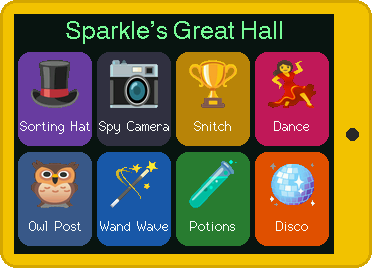
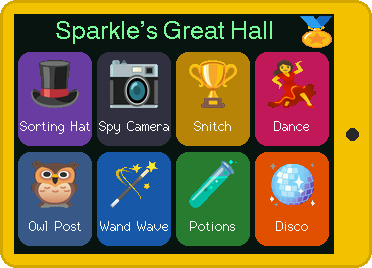
CYD badge board: medal button on the menu shows Megaspy's badges from IDEAS.md (tools/badges.py)

Changed region(s): [[0.1478, 0.0597, 0.7688, 0.1493], [0.7984, 0.0597, 0.8871, 0.1791]]

diff --git a/firmware/cyd/cyd_menu/icons.h b/firmware/cyd/cyd_menu/icons.h
@@ -2714,6 +2714,73 @@ const uint16_t DISCO[] PROGMEM = {
   0xF81F, 0xF81F, 0xF81F, 0xF81F, 0xF81F, 0xF81F, 0xF81F, 0xF81F, 0xF81F, 0xF81F, 0xF81F, 0xF81F, 0xF81F, 0xF81F, 0xF81F, 0xF81F,
   0xF81F, 0xF81F, 0xF81F, 0xF81F, 0xF81F, 0xF81F, 0xF81F, 0xF81F, 0xF81F, 0xF81F, 0xF81F, 0xF81F, 0xF81F, 0xF81F, 0xF81F, 0xF81F,
 };
+#define MEDAL_W 32
+const uint16_t MEDAL[] PROGMEM = {
+  0x23F8, 0x2CFE, 0x2CBD, 0x2CBD, 0x2CBD, 0x2CBD, 0x2CBD, 0x2CBD, 0x2CBD, 0x2CBD, 0x2CBD, 0x2CBC, 0x2CDD, 0x2C5A, 0xF81F, 0xF81F,
+  0xF81F, 0xF81F, 0xF81F, 0x1378, 0x1337, 0x1337, 0x1337, 0x1337, 0x1337, 0x1337, 0x1337, 0x1337, 0x1358, 0x1358, 0x1399, 0x1316,
+  0xF81F, 0x2C9C, 0x355F, 0x2CFE, 0x2D1F, 0x2D1F, 0x2D1F, 0x2D1F, 0x2D1F, 0x2D1F, 0x2CFF, 0x2D1F, 0x2D1F, 0x353F, 0xF81F, 0xF81F,
+  0xF81F, 0xF81F, 0x1358, 0x1B9A, 0x1B79, 0x1B99, 0x1B99, 0x1B99, 0x1B99, 0x1B99, 0x1B99, 0x1B99, 0x1B79, 0x1B9A, 0x1379, 0xF81F,
+  0xF81F, 0xF81F, 0x2CBD, 0x353F, 0x2CDE, 0x2CFE, 0x2CFE, 0x2CFE, 0x2CFE, 0x2CFE, 0x2CFE, 0x2CFE, 0x2CFE, 0x2CFE, 0x2D1F, 0xF81F,
+  0xF81F, 0x1358, 0x1B9A, 0x1358, 0x1358, 0x1358, 0x1358, 0x1358, 0x1358, 0x1358, 0x1358, 0x1358, 0x1379, 0x1379, 0xF81F, 0xF81F,
+  0xF81F, 0xF81F, 0xF81F, 0x2CDD, 0x351F, 0x2CFE, 0x2CFE, 0x2CFE, 0x2CFE, 0x2CFE, 0x2CFE, 0x2CFE, 0x2CFE, 0x2CDE, 0x351F, 0x2CBD,
+  0x1357, 0x1B9A, 0x1358, 0x1378, 0x1378, 0x1378, 0x1378, 0x1378, 0x1378, 0x1378, 0x1378, 0x1379, 0x1B9A, 0xF81F, 0xF81F, 0xF81F,
+  0xF81F, 0xF81F, 0xF81F, 0xF81F, 0x2CDD, 0x2D1F, 0x2CFE, 0x2CFE, 0x2CFE, 0x2CFE, 0x2CFE, 0x2CFE, 0x2CFE, 0x2CFE, 0x2CDE, 0x351F,
+  0x2CBE, 0x1358, 0x1379, 0x1378, 0x1378, 0x1378, 0x1378, 0x1378, 0x1378, 0x1378, 0x1358, 0x1BBA, 0x12F5, 0xF81F, 0xF81F, 0xF81F,
+  0xF81F, 0xF81F, 0xF81F, 0xF81F, 0xF81F, 0x2CFE, 0x2D1F, 0x2CFE, 0x2CFE, 0x2CFE, 0x2CFE, 0x2CFE, 0x2CFE, 0x2CFE, 0x2CFE, 0x2CDE,
+  0x2D1E, 0x243B, 0x1358, 0x1379, 0x1378, 0x1378, 0x1378, 0x1378, 0x1378, 0x1358, 0x1BBA, 0x12F6, 0xF81F, 0xF81F, 0xF81F, 0xF81F,
+  0xF81F, 0xF81F, 0xF81F, 0xF81F, 0xF81F, 0xF81F, 0x2D1F, 0x2CFE, 0x2CFE, 0x2CFE, 0x2CFE, 0x2CFE, 0x2CFE, 0x2CFE, 0x2CFE, 0x2CFE,
+  0x2CFE, 0x2CFE, 0x1BDA, 0x1358, 0x1379, 0x1378, 0x1378, 0x1378, 0x1358, 0x1BBA, 0x1316, 0xF81F, 0xF81F, 0xF81F, 0xF81F, 0xF81F,
+  0xF81F, 0xF81F, 0xF81F, 0xF81F, 0xF81F, 0xF81F, 0xF81F, 0x353F, 0x2CFE, 0x2CFE, 0x2CFE, 0x2CFE, 0x2CFE, 0x2CFE, 0x2CFE, 0x2CFE,
+  0x2CFE, 0x2CFE, 0x2CDE, 0x1B99, 0x1358, 0x1378, 0x1378, 0x1358, 0x1B9A, 0x1337, 0xF81F, 0xF81F, 0xF81F, 0xF81F, 0xF81F, 0xF81F,
+  0xF81F, 0xF81F, 0xF81F, 0xF81F, 0xF81F, 0xF81F, 0xF81F, 0x243A, 0x355F, 0x34FE, 0x2CFE, 0x2CFE, 0x2CFE, 0x2CFE, 0x2CFE, 0x2CFE,
+  0x2CFE, 0x2CFE, 0x2D1E, 0x2C9C, 0x1358, 0x1B78, 0x1B78, 0x1BBA, 0x1B57, 0xF81F, 0xF81F, 0xF81F, 0xF81F, 0xF81F, 0xF81F, 0xF81F,
+  0xF81F, 0xF81F, 0xF81F, 0xF81F, 0xF81F, 0xF81F, 0xF81F, 0xF81F, 0x0C1D, 0x251F, 0x34FE, 0x2CFE, 0x2CFE, 0x2CFE, 0x2CFE, 0x2CFE,
+  0x2CFE, 0x2CFE, 0x2CDE, 0x2D1E, 0x241B, 0x0B38, 0x0B5B, 0x0319, 0xF81F, 0xF81F, 0xF81F, 0xF81F, 0xF81F, 0xF81F, 0xF81F, 0xF81F,
+  0xF81F, 0xF81F, 0xF81F, 0xF81F, 0xF81F, 0xF81F, 0xF81F, 0xF81F, 0xF560, 0x7554, 0x1CFF, 0x355F, 0x355F, 0x355F, 0x355F, 0x355F,
+  0x355F, 0x355F, 0x355F, 0x355F, 0x2D3F, 0x8532, 0xB54A, 0xCD87, 0xF81F, 0xF81F, 0xF81F, 0xF81F, 0xF81F, 0xF81F, 0xF81F, 0xF81F,
+  0xF81F, 0xF81F, 0xF81F, 0xF81F, 0xF81F, 0xF81F, 0xF81F, 0xF81F, 0xF5C2, 0xFEA4, 0x7CF1, 0x1C1B, 0x145E, 0x145E, 0x1C5C, 0x1CBF,
+  0x1CDF, 0x1CDF, 0x1CBF, 0x145E, 0x045F, 0x6492, 0xFDC0, 0xFF03, 0xDD43, 0xF81F, 0xF81F, 0xF81F, 0xF81F, 0xF81F, 0xF81F, 0xF81F,
+  0xF81F, 0xF81F, 0xF81F, 0xF81F, 0xF81F, 0xF81F, 0xF81F, 0xF81F, 0xE563, 0xF603, 0xFE01, 0xFDE1, 0xFDA0, 0xF81F, 0xFE6C, 0xFDE5,
+  0xFD80, 0xFDA0, 0xFDA0, 0xF540, 0xF81F, 0xF5C1, 0xF5E3, 0xF623, 0xF81F, 0xF81F, 0xF81F, 0xF81F, 0xF81F, 0xF81F, 0xF81F, 0xF81F,
+  0xF81F, 0xF81F, 0xF81F, 0xF81F, 0xF81F, 0xF81F, 0xF81F, 0xF81F, 0xF81F, 0xF81F, 0xF81F, 0xE5C4, 0xEDC2, 0xFE45, 0xFFFF, 0xFF70,
+  0xFE61, 0xFE84, 0xFE83, 0xFEA3, 0xEDE3, 0xEDE3, 0xF81F, 0xF81F, 0xF81F, 0xF81F, 0xF81F, 0xF81F, 0xF81F, 0xF81F, 0xF81F, 0xF81F,
+  0xF81F, 0xF81F, 0xF81F, 0xF81F, 0xF81F, 0xF81F, 0xF81F, 0xF81F, 0xF81F, 0xF81F, 0xF81F, 0xF81F, 0xF81F, 0xECA4, 0xFD69, 0xFCE6,
+  0xF4C4, 0xFCC4, 0xFCE4, 0xF4E4, 0xDBE4, 0xF81F, 0xF81F, 0xF81F, 0xF81F, 0xF81F, 0xF81F, 0xF81F, 0xF81F, 0xF81F, 0xF81F, 0xF81F,
+  0xF81F, 0xF81F, 0xF81F, 0xF81F, 0xF81F, 0xF81F, 0xF81F, 0xF81F, 0xF81F, 0xEC45, 0xF443, 0xFCA3, 0xFD05, 0xFD05, 0xFCE3, 0xFD24,
+  0xFD44, 0xFD44, 0xFD24, 0xFD04, 0xFD25, 0xFD05, 0xF485, 0xEC45, 0xEC44, 0xF81F, 0xF81F, 0xF81F, 0xF81F, 0xF81F, 0xF81F, 0xF81F,
+  0xF81F, 0xF81F, 0xF81F, 0xF81F, 0xF81F, 0xF81F, 0xE445, 0xF465, 0xFCA3, 0xFD24, 0xFE0B, 0xFE8E, 0xFE04, 0xFE02, 0xFE23, 0xFE23,
+  0xFDE3, 0xFDC3, 0xFE23, 0xFE23, 0xFE03, 0xFE03, 0xFDC3, 0xFD84, 0xFD25, 0xFC85, 0xEC45, 0xF81F, 0xF81F, 0xF81F, 0xF81F, 0xF81F,
+  0xF81F, 0xF81F, 0xF81F, 0xF81F, 0xF81F, 0xEC65, 0xFCC4, 0xFD24, 0xFE8F, 0xFFDC, 0xFFFE, 0xFF12, 0xFE03, 0xFE03, 0xFE03, 0xFDE3,
+  0xFCA5, 0xFCA5, 0xFDE3, 0xFE03, 0xFE03, 0xFE03, 0xFE03, 0xFE23, 0xFE03, 0xFD83, 0xFD05, 0xFCA5, 0xE424, 0xF81F, 0xF81F, 0xF81F,
+  0xF81F, 0xF81F, 0xF81F, 0xF81F, 0xF485, 0xFCC3, 0xFDE9, 0xFFBA, 0xFFFF, 0xFF55, 0xFE25, 0xFDC1, 0xFE03, 0xFE03, 0xFE03, 0xFD04,
+  0xFC85, 0xFC85, 0xFD24, 0xFE23, 0xFE03, 0xFE03, 0xFE03, 0xFE03, 0xFE03, 0xFE03, 0xFE03, 0xFD24, 0xFCE5, 0xEC64, 0xF81F, 0xF81F,
+  0xF81F, 0xF81F, 0xF81F, 0xEC65, 0xFCA4, 0xFE4B, 0xFFFE, 0xFFFF, 0xFECB, 0xFE01, 0xFE02, 0xFE23, 0xFE23, 0xFE23, 0xFD84, 0xFC85,
+  0xFCA5, 0xFC85, 0xFC85, 0xFDA3, 0xFE23, 0xFE03, 0xFE03, 0xFE03, 0xFE03, 0xFE03, 0xFE03, 0xFE23, 0xFD44, 0xFCE5, 0xE444, 0xF81F,
+  0xF81F, 0xF81F, 0xDC04, 0xFCC5, 0xFD87, 0xFFFD, 0xFFFE, 0xFE2A, 0xFD41, 0xFD84, 0xFD64, 0xFD64, 0xFD64, 0xFD24, 0xFCA5, 0xFC85,
+  0xFC85, 0xFC85, 0xFC85, 0xFCA5, 0xFD64, 0xFD83, 0xFDA3, 0xFDA3, 0xFDA3, 0xFDC3, 0xFDE3, 0xFE03, 0xFE03, 0xFCE4, 0xFCC5, 0xF81F,
+  0xF81F, 0xF81F, 0xEC45, 0xFCA3, 0xFEF2, 0xFFFF, 0xFEF0, 0xFD81, 0xFCE5, 0xFC65, 0xFC65, 0xFC85, 0xFC85, 0xFC85, 0xFC85, 0xFC85,
+  0xFC85, 0xFC85, 0xFC85, 0xFC85, 0xFC85, 0xFC85, 0xFC85, 0xFC85, 0xFC65, 0xFC85, 0xFD64, 0xFE03, 0xFE03, 0xFDA3, 0xFCC5, 0xDC24,
+  0xF81F, 0xF81F, 0xEC65, 0xFCC2, 0xFF55, 0xFFBB, 0xFE03, 0xFE03, 0xFE03, 0xFD64, 0xFCA5, 0xFC85, 0xFCA5, 0xFCA5, 0xFC85, 0xFC85,
+  0xFC85, 0xFC85, 0xFC85, 0xFC85, 0xFCA5, 0xFC85, 0xFC85, 0xFCA5, 0xFD04, 0xFDC3, 0xFE03, 0xFE03, 0xFE03, 0xFDE3, 0xFCA5, 0xF465,
+  0xF81F, 0xF81F, 0xEC45, 0xFCE4, 0xFE25, 0xFE25, 0xFE02, 0xFE03, 0xFE03, 0xFE23, 0xFDE3, 0xFD04, 0xFC85, 0xFC85, 0xFC85, 0xFC85,
+  0xFC85, 0xFC85, 0xFC85, 0xFC85, 0xFC85, 0xFC85, 0xFD24, 0xFDC3, 0xFE03, 0xFE03, 0xFE03, 0xFE03, 0xFE03, 0xFDE3, 0xFCC5, 0xFC85,
+  0xF81F, 0xF81F, 0xEC45, 0xFCC5, 0xFDE2, 0xFE02, 0xFE03, 0xFE03, 0xFE03, 0xFDE3, 0xFE23, 0xFDA3, 0xFC85, 0xFC85, 0xFC85, 0xFCA5,
+  0xFC85, 0xFC85, 0xFCA5, 0xFC85, 0xFC85, 0xFCC4, 0xFE03, 0xFE03, 0xFE03, 0xFE03, 0xFE03, 0xFE03, 0xFE03, 0xFDC3, 0xFCA5, 0xE424,
+  0xF81F, 0xF81F, 0xE424, 0xFCC5, 0xFD64, 0xFE23, 0xFE03, 0xFE03, 0xFE03, 0xFE03, 0xFE03, 0xFD04, 0xFC85, 0xFCA5, 0xFC85, 0xFC85,
+  0xFC85, 0xFC85, 0xFC85, 0xFC85, 0xFCA5, 0xFC85, 0xFDA3, 0xFE03, 0xFE03, 0xFE03, 0xFE03, 0xFE03, 0xFE23, 0xFD24, 0xFCC5, 0xD404,
+  0xF81F, 0xF81F, 0xF81F, 0xF485, 0xFCC5, 0xFDA3, 0xFE23, 0xFE03, 0xFE03, 0xFE03, 0xFDA3, 0xFC85, 0xFC85, 0xFC85, 0xFCC4, 0xFD44,
+  0xFDA3, 0xFDA3, 0xFD24, 0xFCA5, 0xFC85, 0xFC65, 0xFD04, 0xFE03, 0xFE03, 0xFE03, 0xFE03, 0xFE23, 0xFD83, 0xFCC5, 0xEC44, 0xF81F,
+  0xF81F, 0xF81F, 0xF81F, 0xF81F, 0xFCA5, 0xFCC5, 0xFD83, 0xFE23, 0xFE03, 0xFE03, 0xFD24, 0xFCA5, 0xFD24, 0xFDA3, 0xFE03, 0xFE23,
+  0xFE03, 0xFE23, 0xFE23, 0xFDE3, 0xFD64, 0xFCC4, 0xFCA5, 0xFDC3, 0xFE03, 0xFE03, 0xFE23, 0xFDA3, 0xFCE5, 0xF485, 0xF81F, 0xF81F,
+  0xF81F, 0xF81F, 0xF81F, 0xF81F, 0xF81F, 0xF485, 0xFCE5, 0xFD44, 0xFDE3, 0xFE23, 0xFDE3, 0xFE03, 0xFE23, 0xFE03, 0xFE03, 0xFE03,
+  0xFE03, 0xFE03, 0xFE03, 0xFE03, 0xFE23, 0xFE03, 0xFDC3, 0xFE03, 0xFE23, 0xFDE3, 0xFD44, 0xFCE5, 0xEC65, 0xF81F, 0xF81F, 0xF81F,
+  0xF81F, 0xF81F, 0xF81F, 0xF81F, 0xF81F, 0xF81F, 0xE444, 0xF465, 0xFD05, 0xFD64, 0xFDC3, 0xFE03, 0xFE03, 0xFE03, 0xFE23, 0xFE03,
+  0xFE03, 0xFE03, 0xFE03, 0xFE23, 0xFE03, 0xFE23, 0xFE03, 0xFDC3, 0xFD84, 0xFD05, 0xF465, 0xDC24, 0xF81F, 0xF81F, 0xF81F, 0xF81F,
+  0xF81F, 0xF81F, 0xF81F, 0xF81F, 0xF81F, 0xF81F, 0xF81F, 0xF81F, 0xF81F, 0xEC45, 0xF465, 0xFCE5, 0xFD44, 0xFD84, 0xFDA4, 0xFDC4,
+  0xFDC3, 0xFDC3, 0xFDC4, 0xFDA4, 0xFD84, 0xFD44, 0xFCE5, 0xF485, 0xEC45, 0xF81F, 0xF81F, 0xF81F, 0xF81F, 0xF81F, 0xF81F, 0xF81F,
+  0xF81F, 0xF81F, 0xF81F, 0xF81F, 0xF81F, 0xF81F, 0xF81F, 0xF81F, 0xF81F, 0xF81F, 0xF81F, 0xF81F, 0xE405, 0xE425, 0xF445, 0xEC25,
+  0xEC45, 0xEC65, 0xEC44, 0xEC45, 0xEC25, 0xE404, 0xF81F, 0xF81F, 0xF81F, 0xF81F, 0xF81F, 0xF81F, 0xF81F, 0xF81F, 0xF81F, 0xF81F,
+};
 #define I_UNICORN_W 32
 const uint16_t I_UNICORN[] PROGMEM = {
   0xF81F, 0xF81F, 0xF81F, 0xF81F, 0x9376, 0xF81F, 0xF81F, 0xF81F, 0xF81F, 0xF81F, 0xF81F, 0xF81F, 0xF81F, 0xF81F, 0xF81F, 0xF81F,

diff --git a/tools/badges.py b/tools/badges.py
@@ -1,0 +1,31 @@
+#!/usr/bin/env python3
+"""Make the yellow screen's badge list from Megaspy's Idea Board (IDEAS.md).
+
+Every line like "- 🏅 **Seeker**: invented the 2-second catch rule ... (2026-10-11)" becomes a badge.
+  python3 tools/badges.py > firmware/cyd/cyd_menu/badges.h      (make cyd-build does this for you)
+"""
+import re
+
+badges = []
+for line in open("IDEAS.md", encoding="utf-8"):
+    m = re.match(r"- 🏅 \*\*(.+?)\*\*:\s*(.*?)\s*(?:\((\d{4}-\d{2}-\d{2})\))?\s*$", line)
+    if m:
+        name, what, date = m.group(1), m.group(2), m.group(3) or ""
+        badges.append((name, what, date))
+
+def c(s):  # plain ASCII for the screen's fonts
+    s = s.replace("’", "'").replace("“", '"').replace("”", '"').replace("—", "-").replace("–", "-")
+    s = s.encode("ascii", "ignore").decode().replace("\\", "\\\\").replace('"', '\\"')
+    return s.strip()
+
+print("// Generated from IDEAS.md by tools/badges.py. Don't edit by hand: add badges to IDEAS.md.")
+print("#pragma once")
+print(f"#define BADGE_COUNT {len(badges)}")
+print("const char* const BADGE_NAMES[BADGE_COUNT > 0 ? BADGE_COUNT : 1] = {")
+for name, _, _ in badges or [("", "", "")]:
+    print(f'  "{c(name)}",')
+print("};")
+print("const char* const BADGE_DATES[BADGE_COUNT > 0 ? BADGE_COUNT : 1] = {")
+for _, _, date in badges or [("", "", "")]:
+    print(f'  "{date}",')
+print("};")

diff --git a/tools/emoji_icons.py b/tools/emoji_icons.py
@@ -16,7 +16,7 @@ ICONS = [  # (C name, emoji, size)
     ("HAT", "🎩", 48), ("OWL", "🦉", 48), ("LETTER", "💌", 48), ("TROPHY", "🏆", 48),
     ("BULB", "💡", 48), ("STAR", "⭐", 48), ("FEATHER", "🪶", 48), ("ZAP", "⚡", 48), ("BOOM", "💥", 48),
     ("WAND", "🪄", 48), ("POTION", "🧪", 48), ("BOOK", "📖", 32),
-    ("CAMERA", "📷", 48), ("DANCER", "💃", 48), ("DISCO", "🪩", 48),
+    ("CAMERA", "📷", 48), ("DANCER", "💃", 48), ("DISCO", "🪩", 48), ("MEDAL", "🏅", 32),
     # potion ingredients, same order as the web page
     ("I_UNICORN", "🦄", 32), ("I_FROG", "🐸", 32), ("I_RAINBOW", "🌈", 32), ("I_SPIDER", "🕷", 32),
     ("I_CANDY", "🍬", 32), ("I_PEPPER", "🌶", 32), ("I_FEATHER", "🪶", 32), ("I_STAR", "⭐", 32),

diff --git a/firmware/cyd/cyd_menu/badges.h b/firmware/cyd/cyd_menu/badges.h
@@ -1,0 +1,29 @@
+// Generated from IDEAS.md by tools/badges.py. Don't edit by hand: add badges to IDEAS.md.
+#pragma once
+#define BADGE_COUNT 11
+const char* const BADGE_NAMES[BADGE_COUNT > 0 ? BADGE_COUNT : 1] = {
+  "Namer",
+  "Robot Namer",
+  "Dance Captain",
+  "Owl Keeper",
+  "Seeker",
+  "Sorted!",
+  "Makeover Wizard",
+  "Potion Master",
+  "Spell Caster",
+  "Spy Camera Agent",
+  "Remote Wizard",
+};
+const char* const BADGE_DATES[BADGE_COUNT > 0 ? BADGE_COUNT : 1] = {
+  "2026-10-10",
+  "2026-10-10",
+  "2026-10-11",
+  "2026-10-11",
+  "2026-10-11",
+  "2026-10-11",
+  "2026-10-11",
+  "2026-10-11",
+  "2026-10-11",
+  "2026-10-11",
+  "2026-10-11",
+};

diff --git a/sim/main.cpp b/sim/main.cpp
@@ -181,6 +181,11 @@ int main(int argc, char** argv) {
   shot("cyd-dance-hearts");
   sp.danceLeft = 0;
 
+  // Badges: tap the medal on the menu
+  toMenu();
+  tap(300, 18);
+  shot("cyd-badges");
+
   // Disco
   open(G_DISCO);
   run(12);

diff --git a/IDEAS.md b/IDEAS.md
@@ -27,8 +27,8 @@ Every idea goes here, in her words. ✅ = built, 🏅 = badge earned, ⭐ = **ke
 - 🏅 **Makeover Wizard**: gave Sparkle's web page the spooky green Potions Dungeon look (2026-10-11)
 - 🏅 **Potion Master**: built the Potion Mixer with 12 potions to discover (2026-10-11)
 - 🏅 **Spell Caster**: swished Sparkle like a wand and cast spells (2026-10-11)
+- 🏅 **Spy Camera Agent**: saw through Sparkle's eye on the yellow screen and loved it (2026-10-11)
+- 🏅 **Remote Wizard**: the yellow screen became Sparkle's remote control, with the Colour Sorting Hat inside (2026-10-11)
 
 ## 🤫 Grown-up tests (surprises she hasn't seen yet)
 - (none right now)
-- 🏅 **Spy Camera Agent**: saw through Sparkle's eye on the yellow screen and loved it (2026-10-11)
-- 🏅 **Remote Wizard**: the yellow screen became Sparkle's remote control, with the Colour Sorting Hat inside (2026-10-11)
